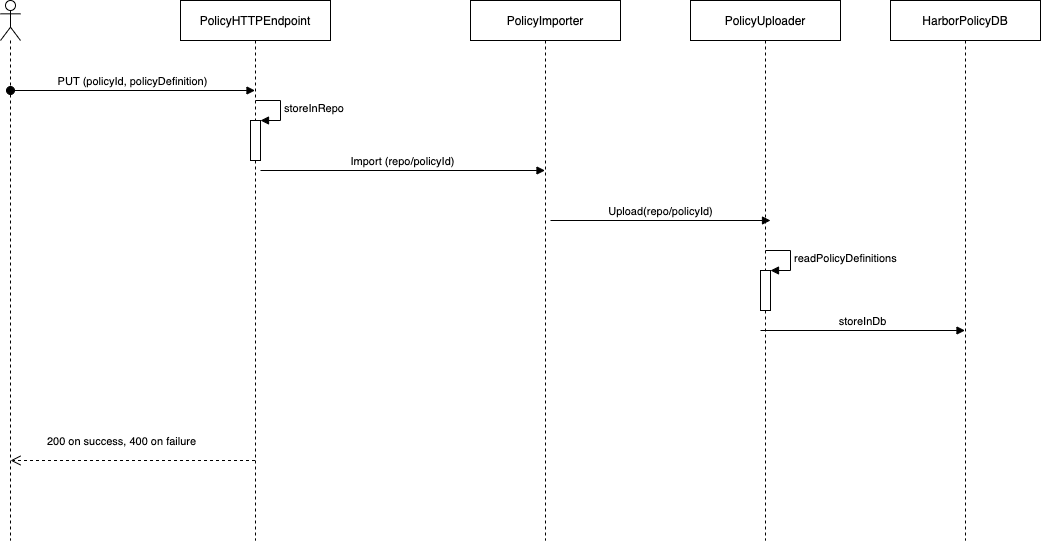
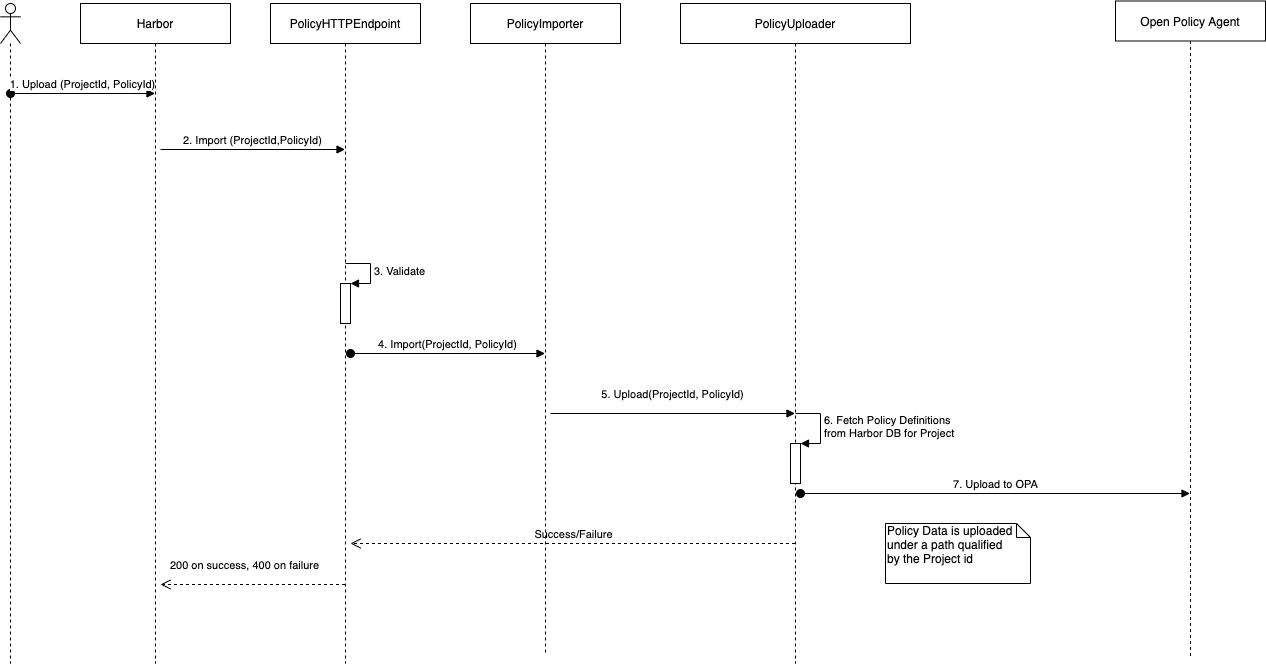
Updating proposal with Use cases, user workflow flowcharts and modified sequence diagrams for policy upload and evaluation

diff --git a/proposals/new/opaintegration.md b/proposals/new/opaintegration.md
@@ -56,7 +56,48 @@ Additionally, there also exists a critical requirement for the end user to be ab
 
 ## Proposal
 
-The next sections describe the architectures and workflows for integrating Harbor with OPA
+The next sections describe the user workflows, low level architectures and messaging flow that enable the Harbor - OPA integration
+
+### Harbor Policy Agent User Workflow
+
+Keeping adherance the multi-tenancy tenets of Harbor, OPA policies would be  scoped at a per-user level and would be availble for use across **all** projects of which the user is a member. This level of scoping will satisfy the following scenarios:
+* Users can author policies relevant to the projects that they manage or a member of and ensure that images within those projects can evaluated against the policies
+* Helps easy migration to a cloud based deployment where-in each user would be a tenant and could own multiple projects against which the policies can be evaluated.
+* To satisfy the use case of an uber registry wide or organization specific Security Admin persona, a new user account for the Security Admin can be created and all enterprise wide acceptance policies can be placed under the Security Admin account. Security Admins can then run evaluations against these policies either on demand or inline with a scan or using a periodinc schedule.
+
+* **Note Security Admin Persona is not within the scope of this proposal and would need to be treated as a separate proposal**
+
+
+The below sub-sections detail some of the proposed workflows. Instead of providing a UI mockup, the focus is on the segues through which the user will navigate to accomplish actions related to Policy evaluation and reporting
+
+**Images and icons need to be finalized and are used for illustration purposes only**
+
+#### Accessing Policy Functionality in Harbor
+
+The below mockup shows the mechanism of accessing the Policy functionality within harbor
+![Harbor Policy Upload Screen](../images/opaintegration/Harbor_Policy_Link.png)
+
+#### Policy Upload User Workflow
+
+![Harbor Policy Upload User Workflow](../images/opaintegration/User_Policy_Upload_Diagram.png)
+
+#### Policy Evaluation - Policy Centric Workflow
+
+The below diagram depicts the user workflow to be followed for a policy centric evaluation i.e. the policy is a reference point against which images are evaluated
+
+![Harbor Policy Evaluation Policy_Centric](../images/opaintegration/User_Policy_Evaluation_Policy_Centric.png)
+
+
+#### Policy Evaluation - Policy Centric Workflow
+
+The below diagram depicts the user workflow to be followed for a image centric evaluation i.e. the image is a reference point against which policies are evaluated
+
+![Harbor Policy Evaluation Image_Centric](../images/opaintegration/User_Policy_Evaluation_Image_Centric.png)
+
+#### Policy Evaluation Reporting Workflow
+
+![Harbor Policy Evaluation Reporting Workflow](../images/opaintegration/User_Policy_Evaluation_Reports.png)
+
 
 ### Harbor Policy Agent Component View
 
@@ -104,6 +145,12 @@ Harbor Policy Evaluation can be triggered in any of the below three forms
 The below sequence diagram depicts the interactions between the various components of the **Harbor Policy Agent** during the Policy evaluation process. It also depicts how Harbor interacts with the Policy Agent using the Policy HTTP Endpoint to trigger a policy evaluation.
 
 ![Harbor Policy Agent Policy Evaluation Workflow](../images/opaintegration/Harbor_Policy_Evaluation_Workflow.png)
+
+##Misc Considerations
+
+###  Multi-tenancy
+
+The proposed solution 
 
 ### Deployment
 
